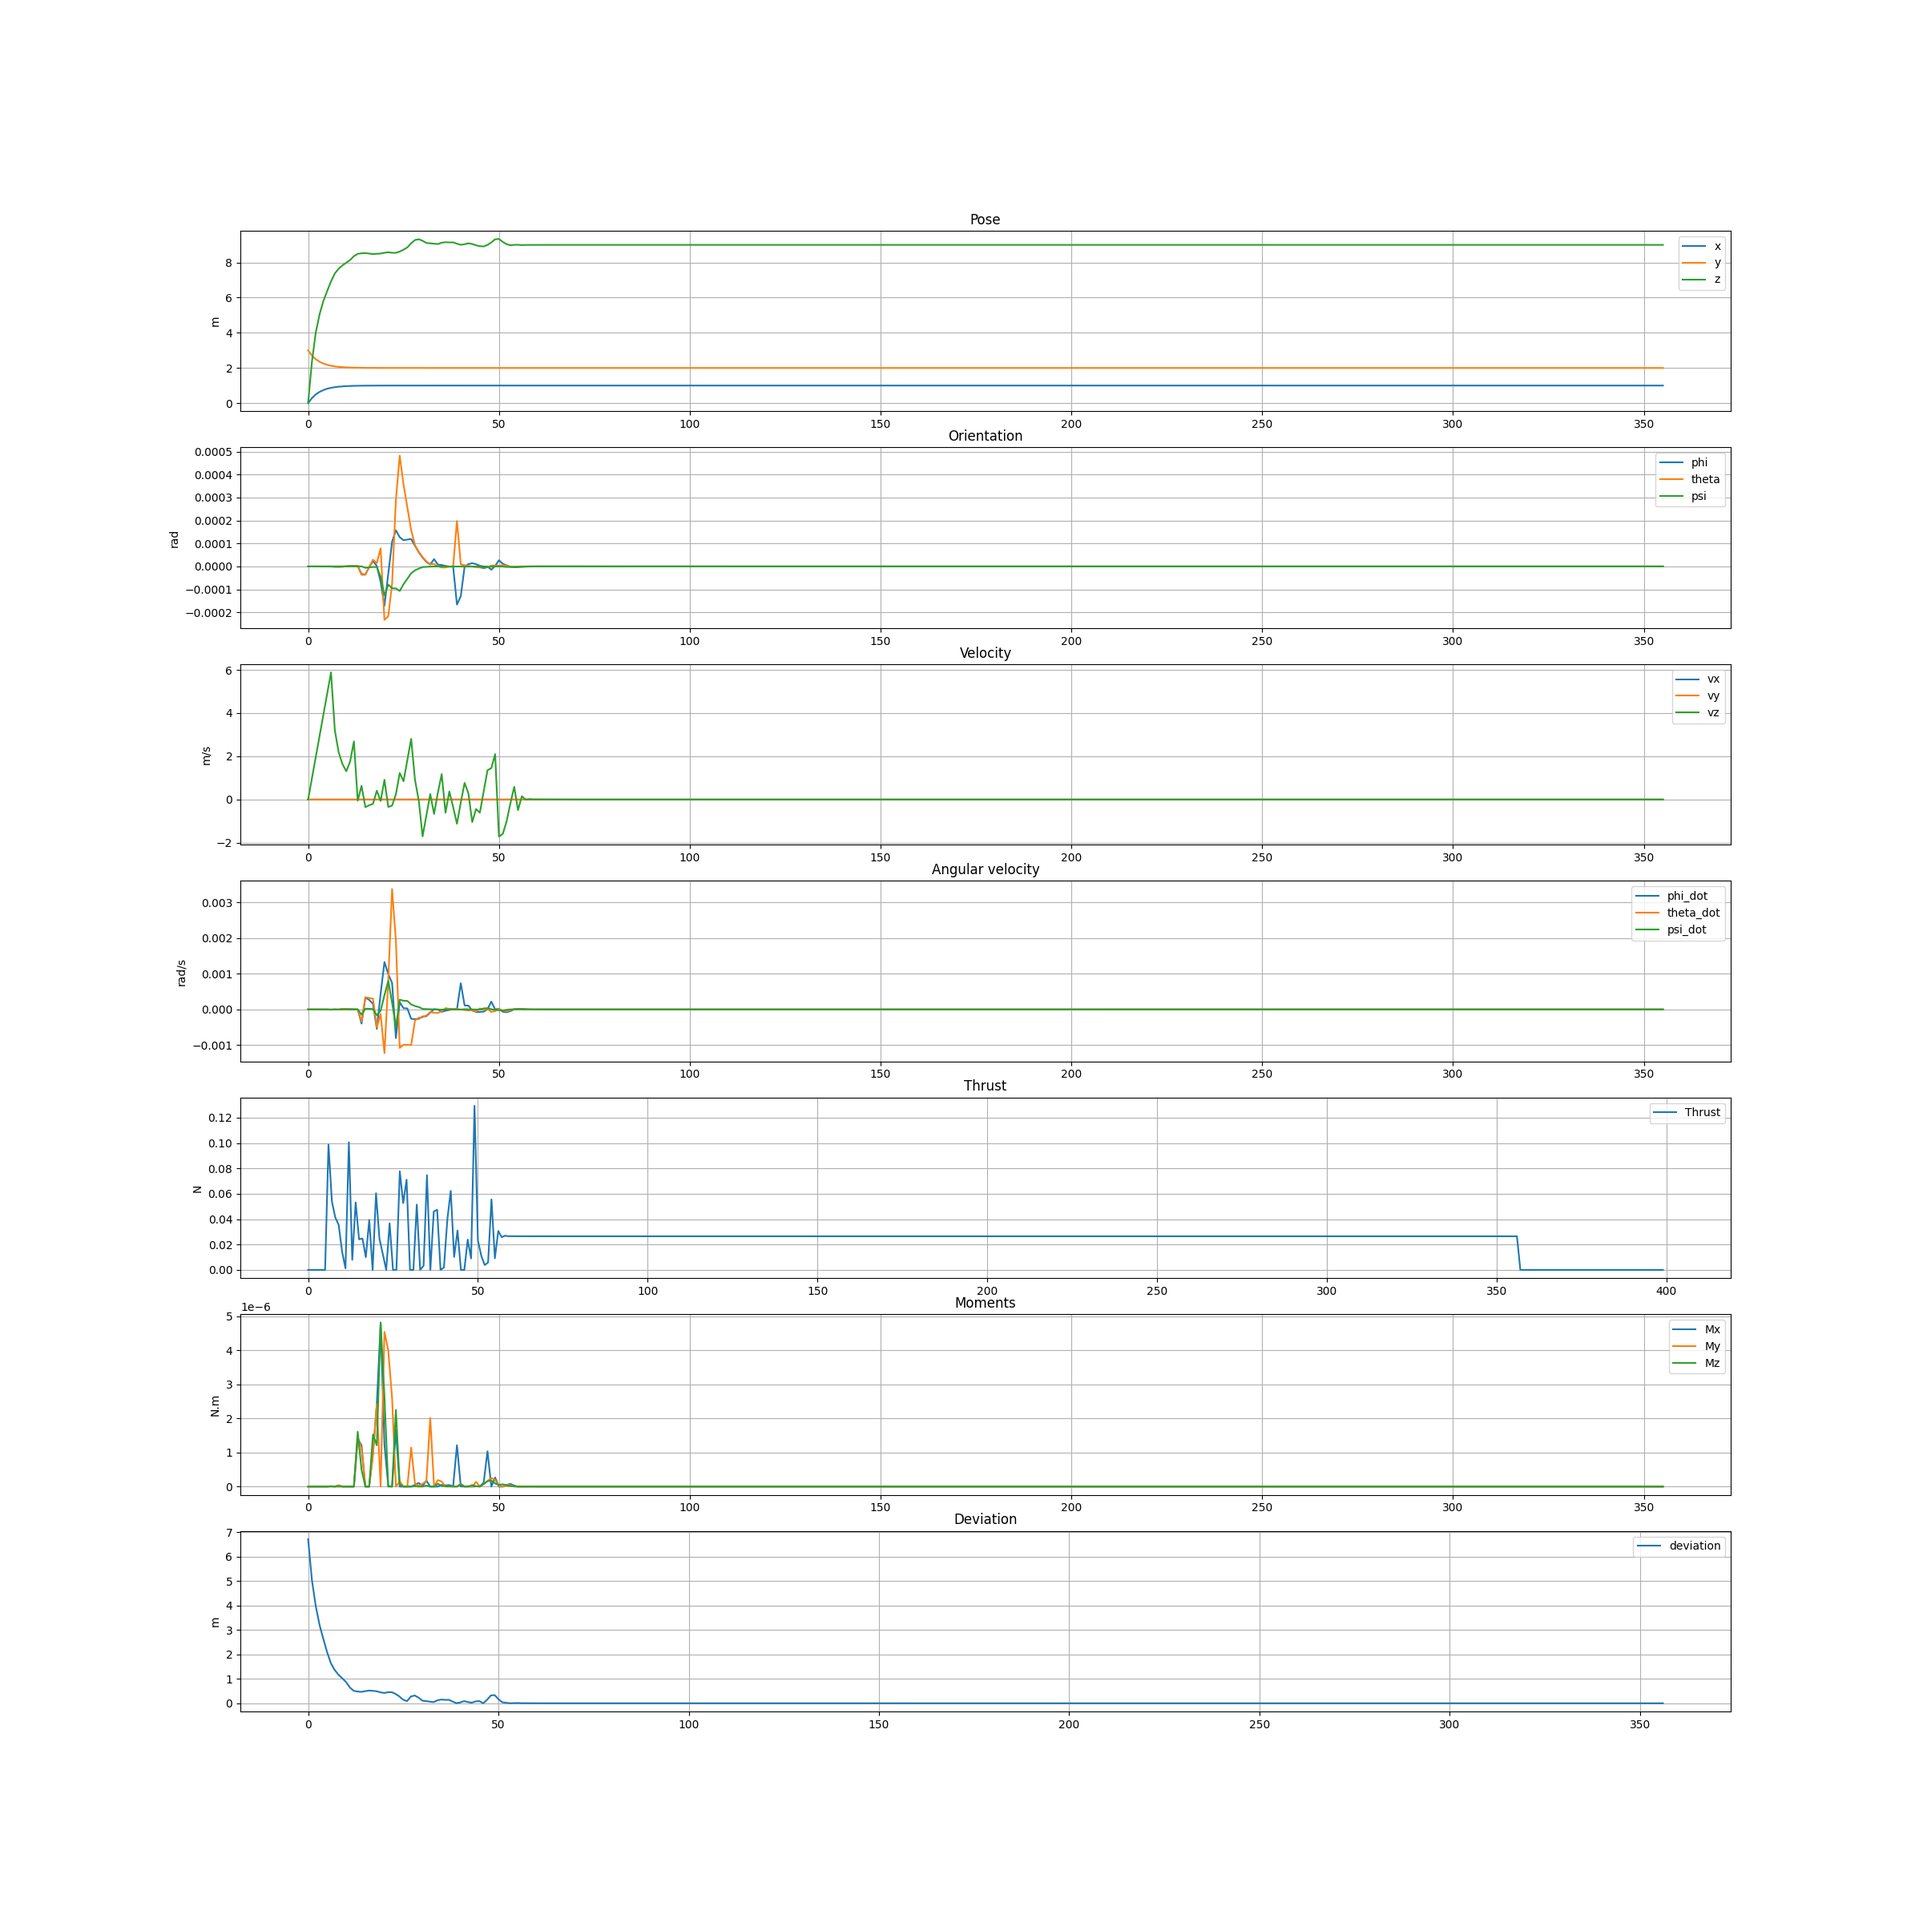
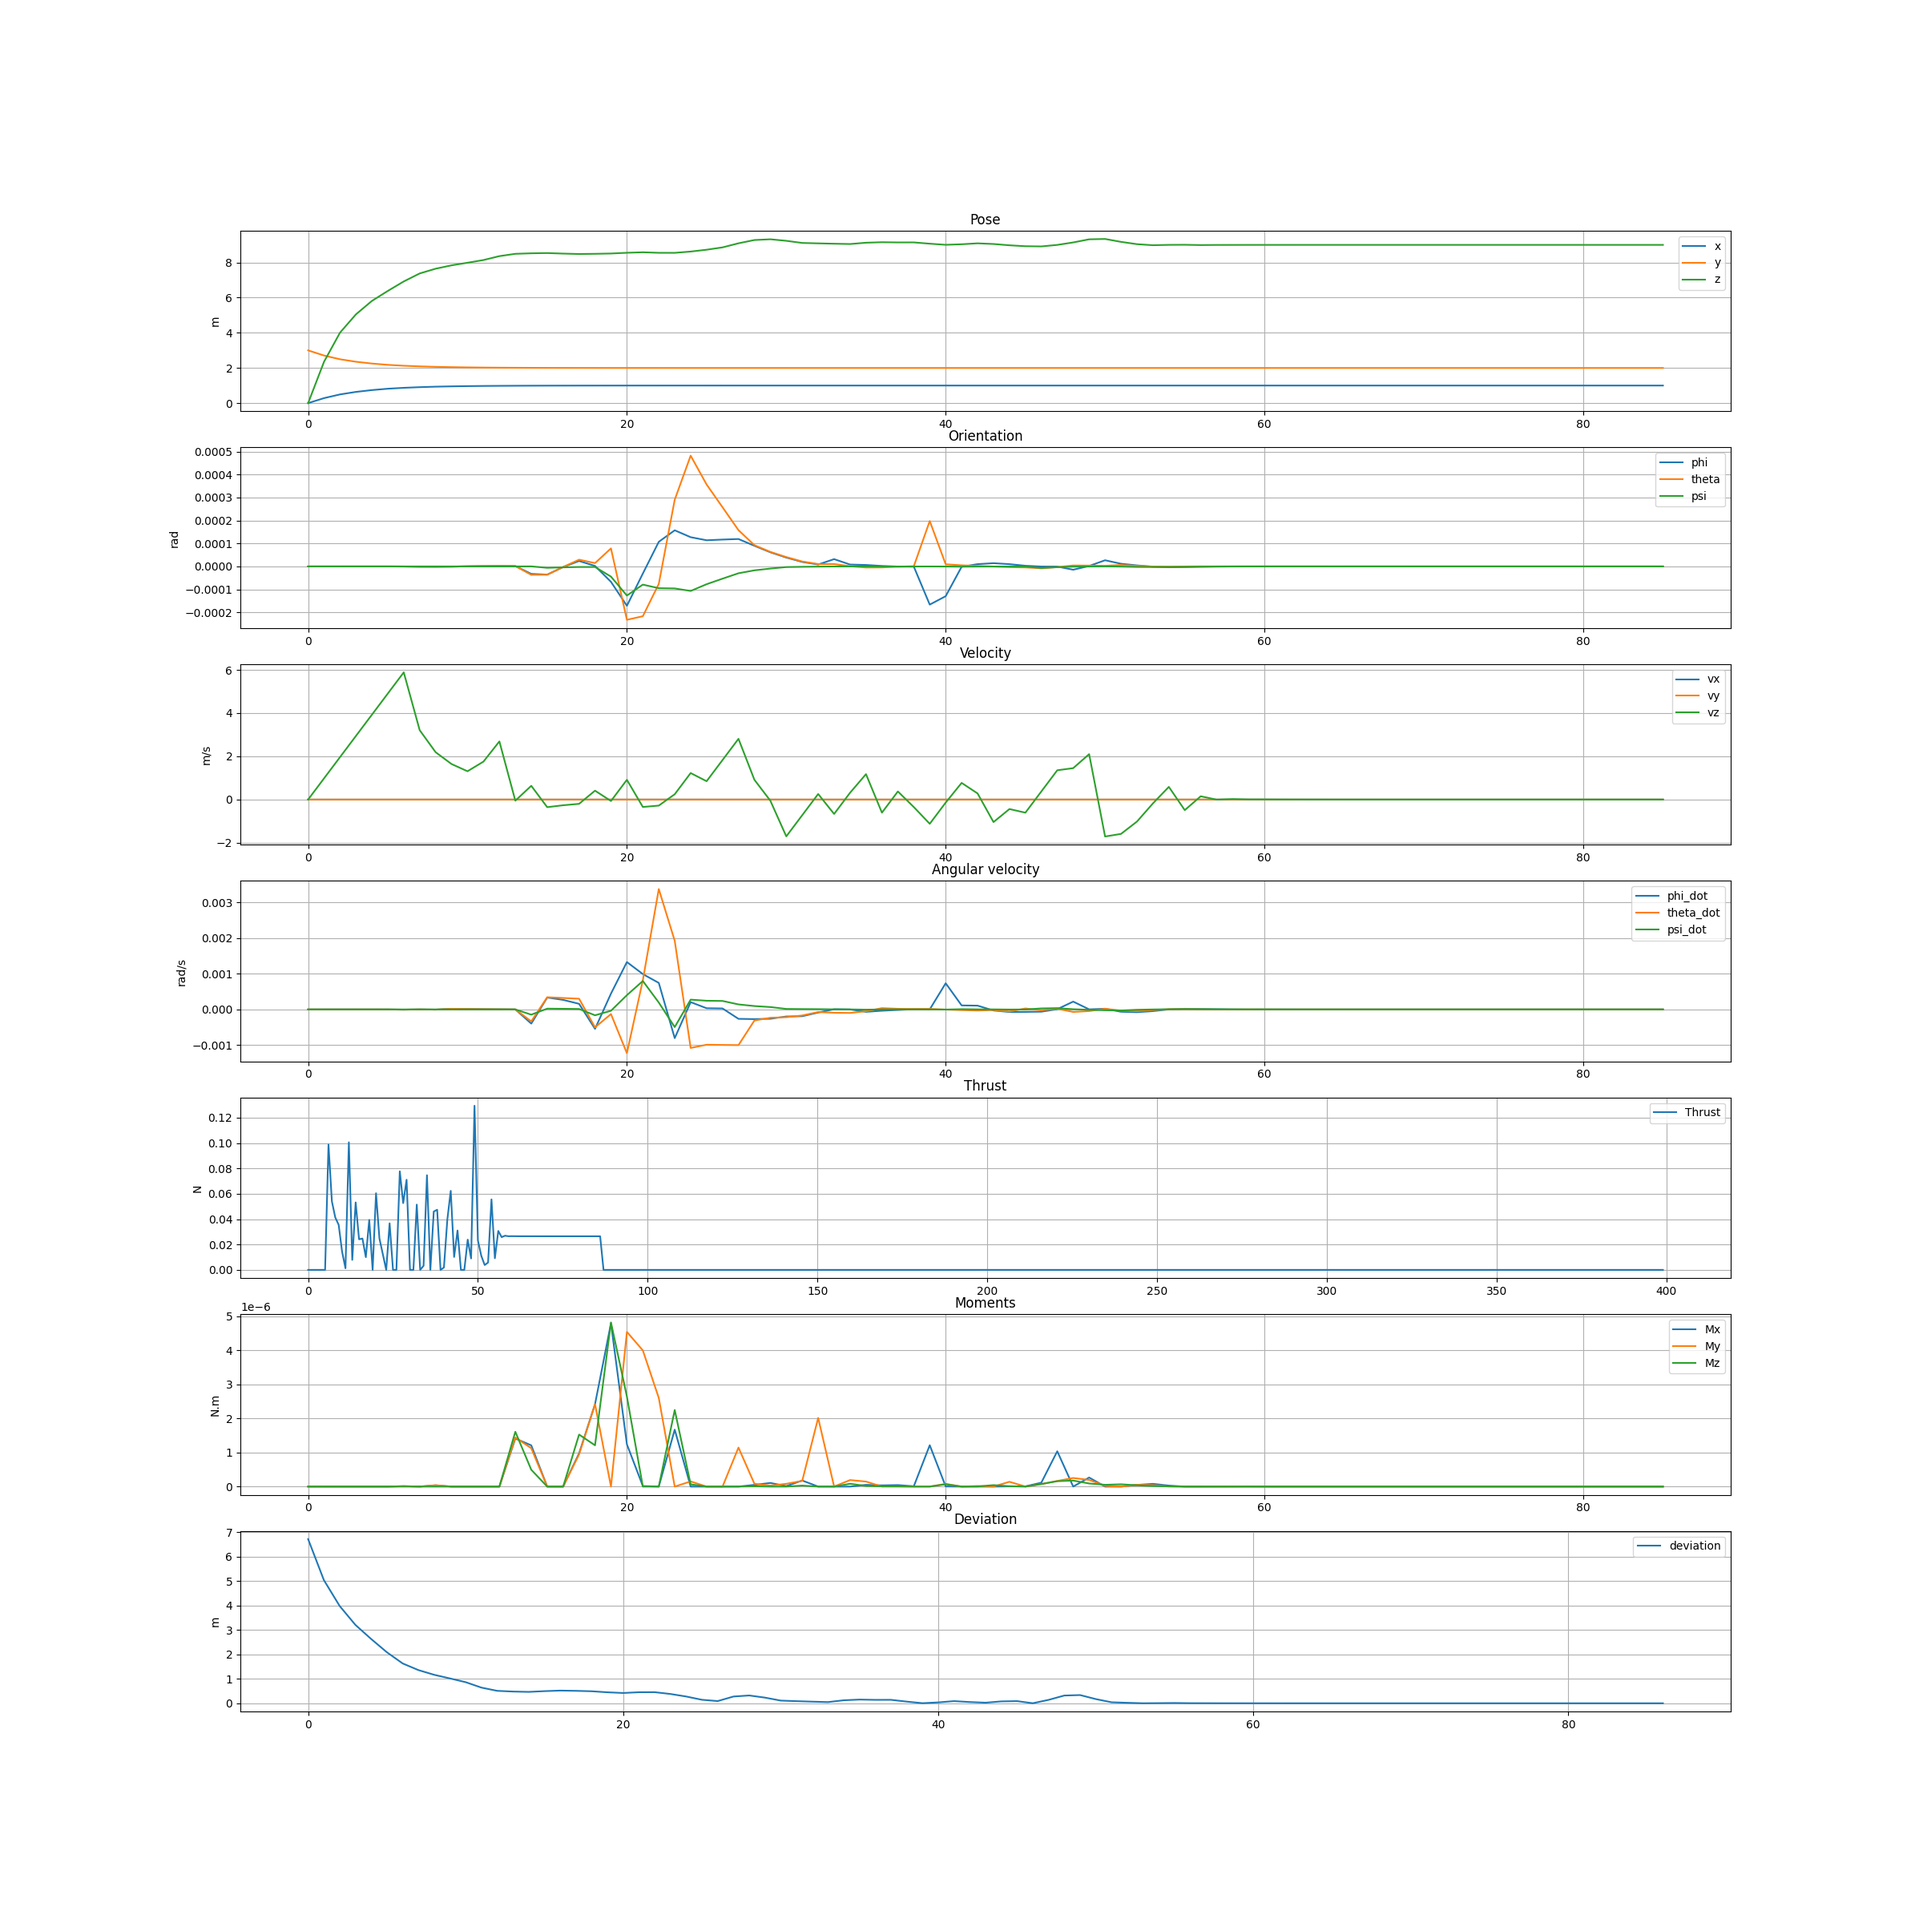
new testpoints

diff --git a/MPC.py b/MPC.py
@@ -64,7 +64,7 @@ def MPC_multiple_shooting( Q, R, function_type, x_init, x_desired, N, T, Tf, nlp
         print('Deviation in euclidean distance: ', pose_deviation, 'm')
         deviation.append(pose_deviation)
         total_deviation = np.linalg.norm(X_mpc[i+1,:] - x_ref)
-
+        print('Total deviation of current state vector from the desired state vector: ', total_deviation)
         # Implement stopping conditions
         if i == N_sim-1:
             print('MPC failed to converge after ',i,' steps')
@@ -72,7 +72,7 @@ def MPC_multiple_shooting( Q, R, function_type, x_init, x_desired, N, T, Tf, nlp
 
         if total_deviation < 0.01:
             stable_state_counter += 1
-            if stable_state_counter == 300:
+            if stable_state_counter == 30:
                 print('MPC converged in ', i ,' steps')
                 break
         end_time = time.time()
@@ -131,6 +131,7 @@ def MPC_collocation(degree, Q, R, function_type, x_init, x_desired, N, T, Tf, nl
 
         deviation.append(pose_deviation)
         total_deviation = np.linalg.norm(X_mpc[i+1,:] - x_ref)
+        print('Total deviation of current state vector from the desired state vector: ', total_deviation)
 
         # Implement stopping conditions
         if i >= N_sim-1:

diff --git a/main.py b/main.py
@@ -35,8 +35,8 @@ def main():
     R = np.diag([1, 1, 1, 1])* 0.6
 
     # define the starting point
-    x_init = np.array([0, 3, 0])
-    x_desired = np.array([1, 2, 9])
+    x_init = np.array([1, 3, 9])
+    x_desired = np.array([8, 5, 1])
 
     # Thrust controlled MPC 
     function_type = "force_control"
